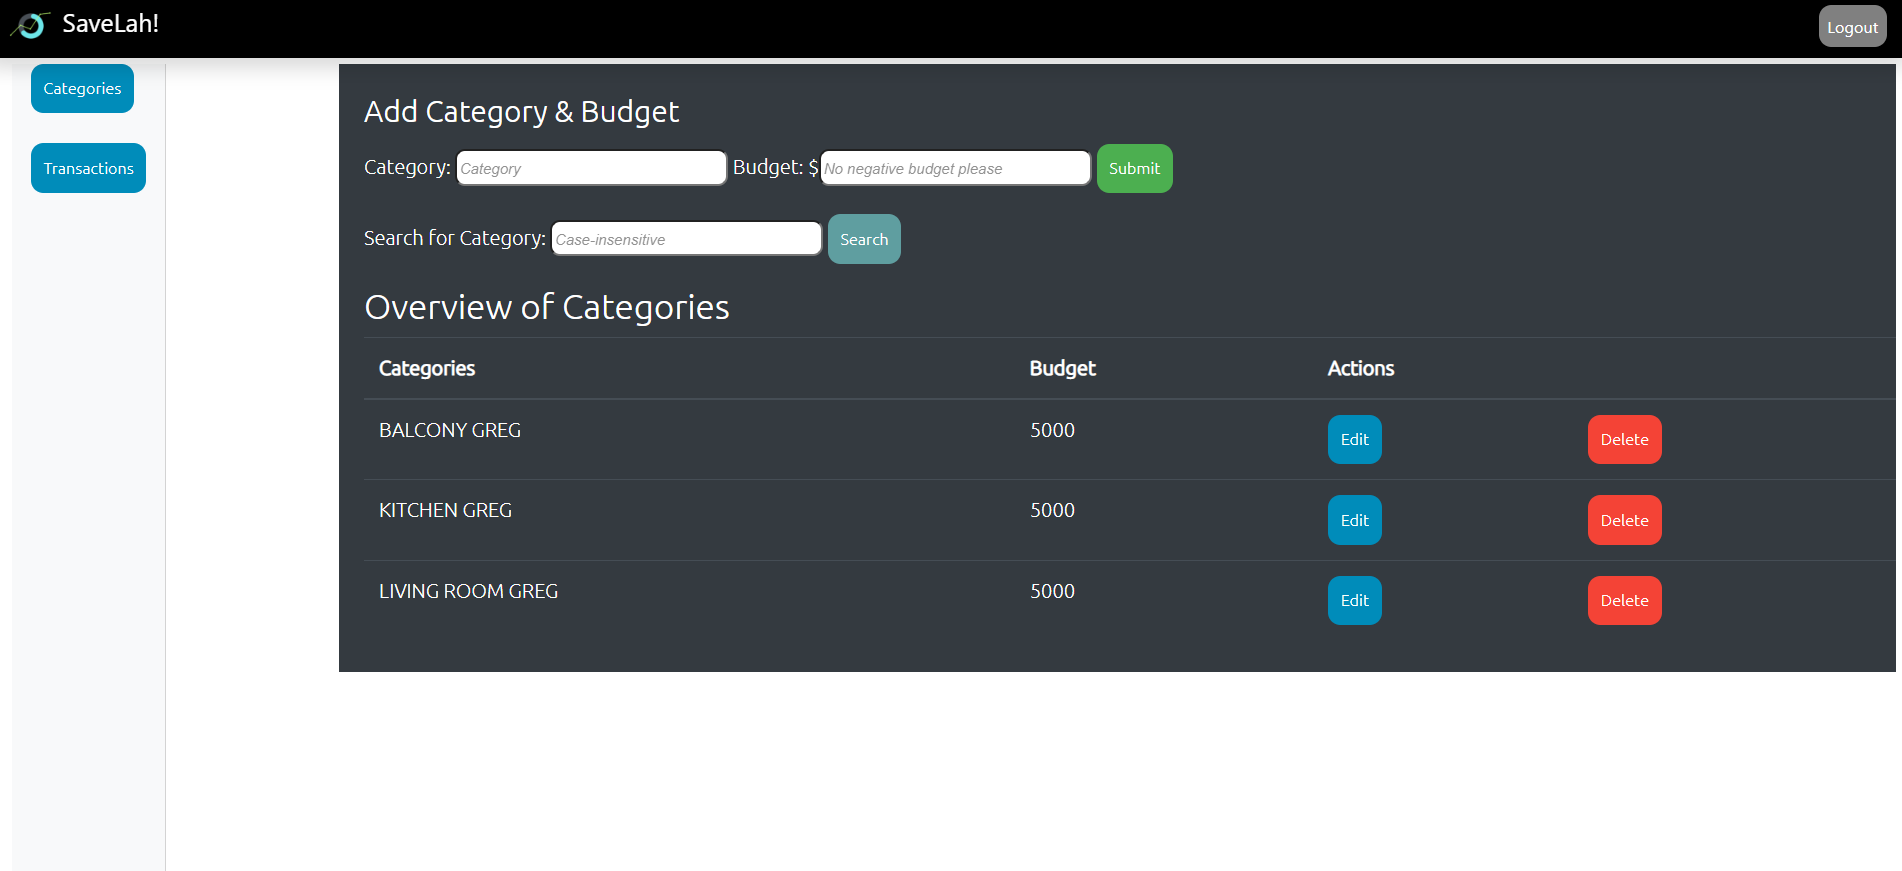
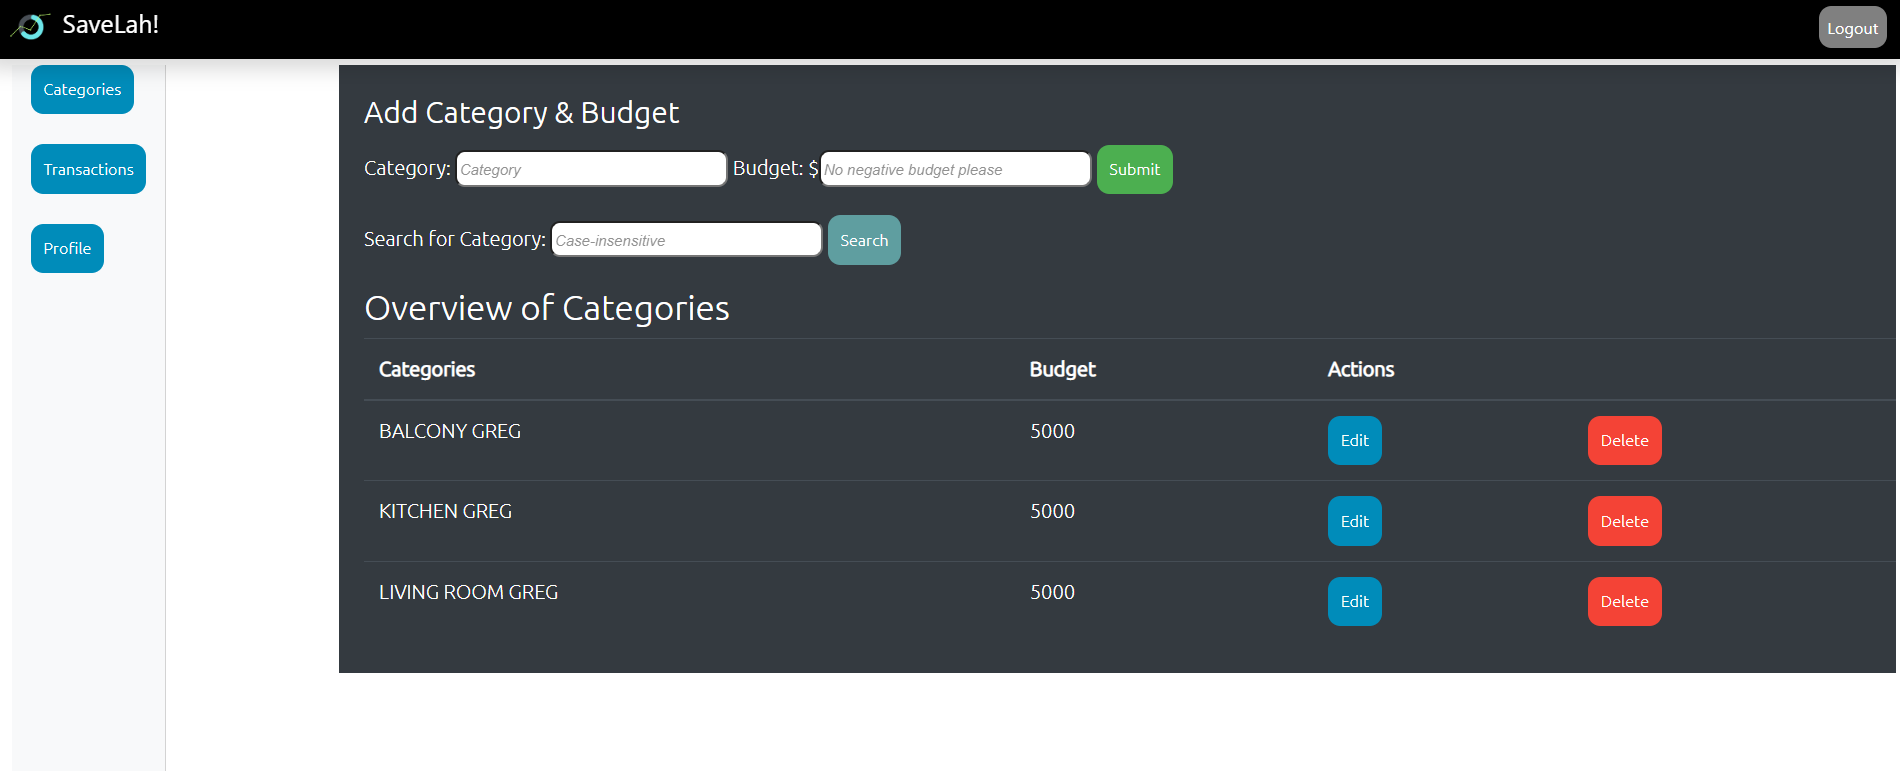
Add new images of wireframes and readme.md

diff --git a/README.md b/README.md
@@ -53,6 +53,7 @@ A development Trello-styled whiteboard for the planning phase can be found <a hr
 | :-------- |:------------|:---------
 | User | to login/register/logout | Authentication (Security)/POST Request
 | User | to have a form to fill in registration/login details | Registration/Login Form (Security)/GET Request
+| User | to change registration information and change password | PUT Request with Password Hashing
 | User | to have an overview of all data through visualisations | Overview of Finances/GET Request
 | User | to access page with all budget categories | Overview of Categories/GET Request
 | User | to add/edit/delete budget categories | POST/PUT/DELETE Requests
@@ -984,7 +985,6 @@ Before the commencement of this app, the original impression of the difficulty i
 
 # **Future Works**
 
-- Profile Page for User to amend his registration information
 - Sign in with OAuth (Google, Facebook)
 - Unit Testing with Mocha and Chai
 - Link up with another user to form a Couple entity, joint account with shared categories
